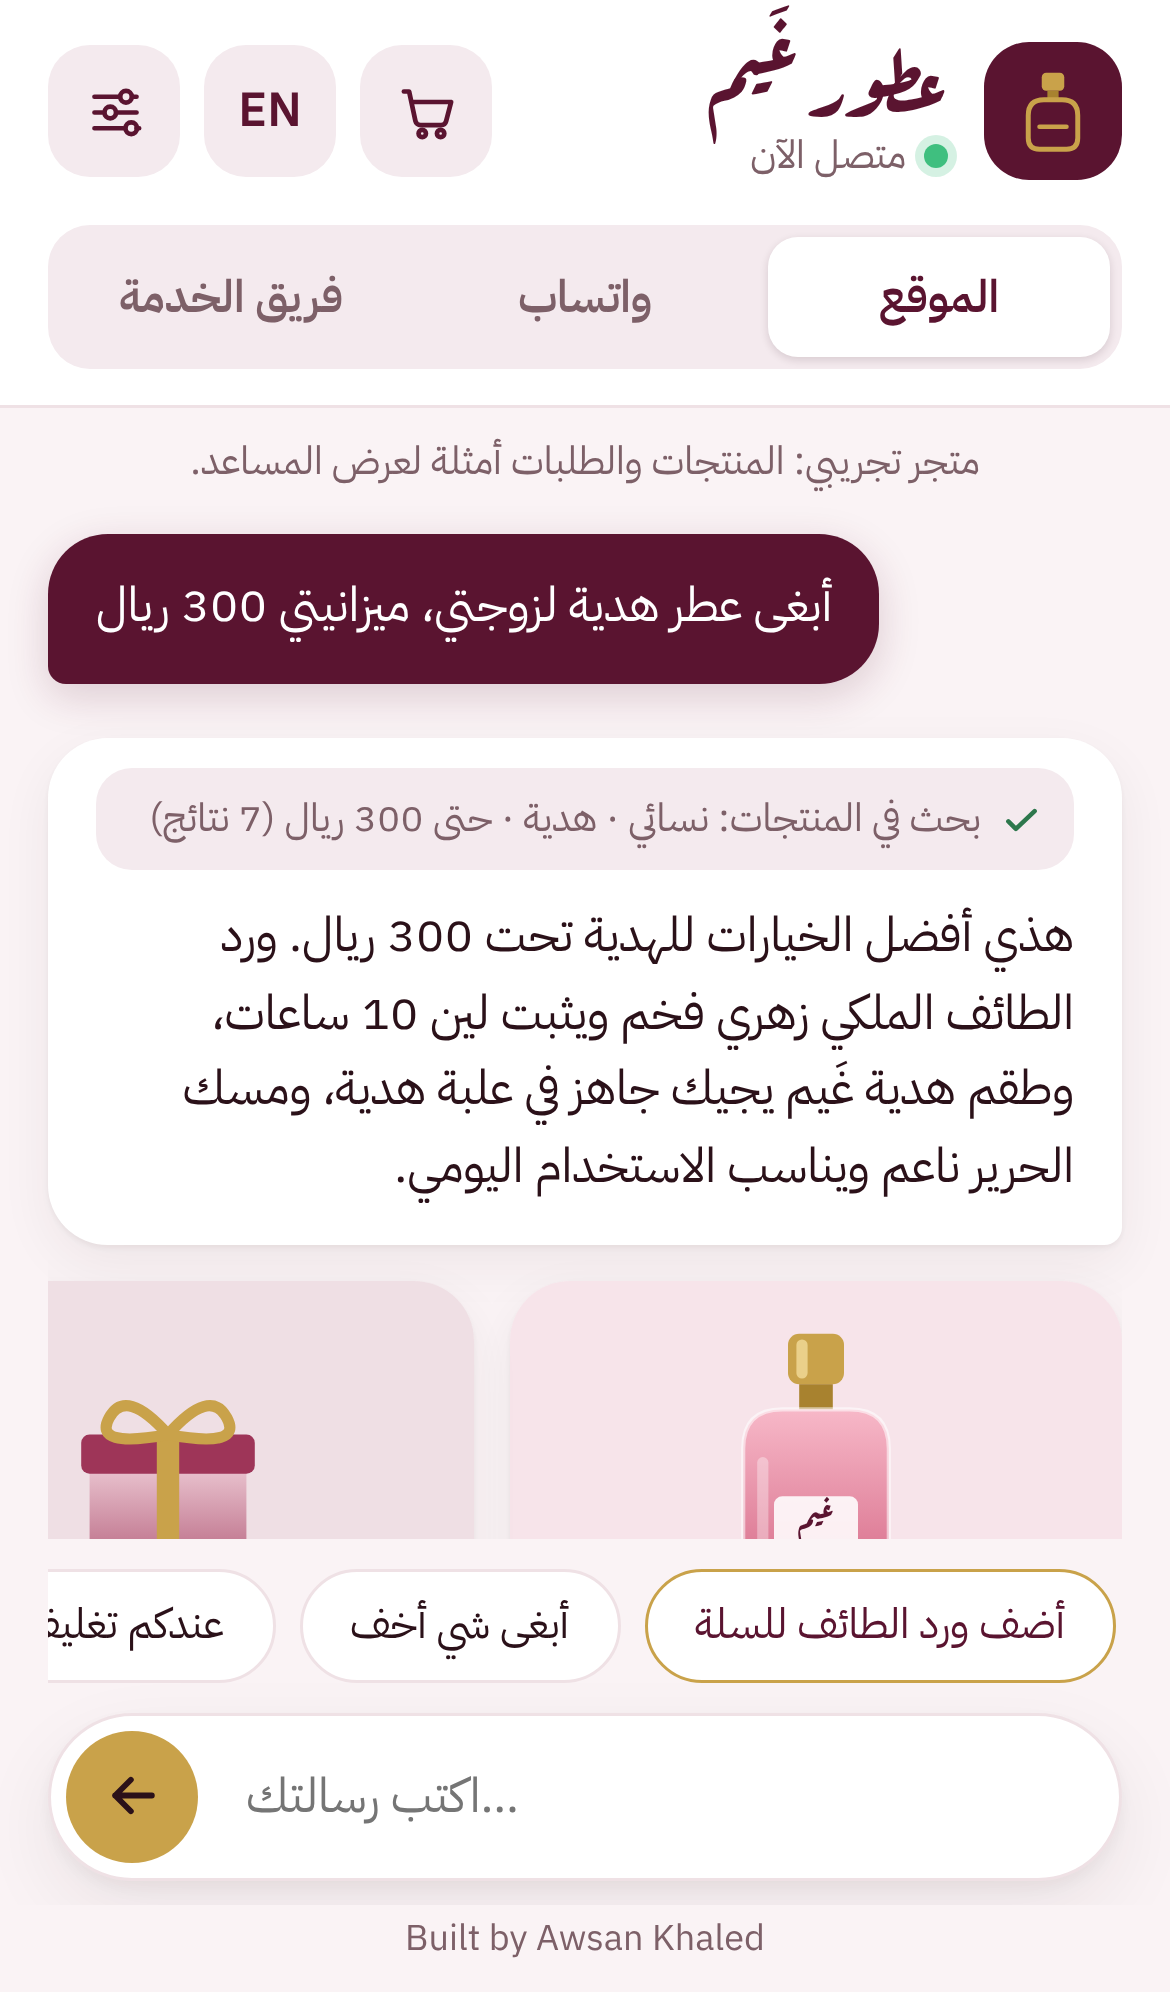
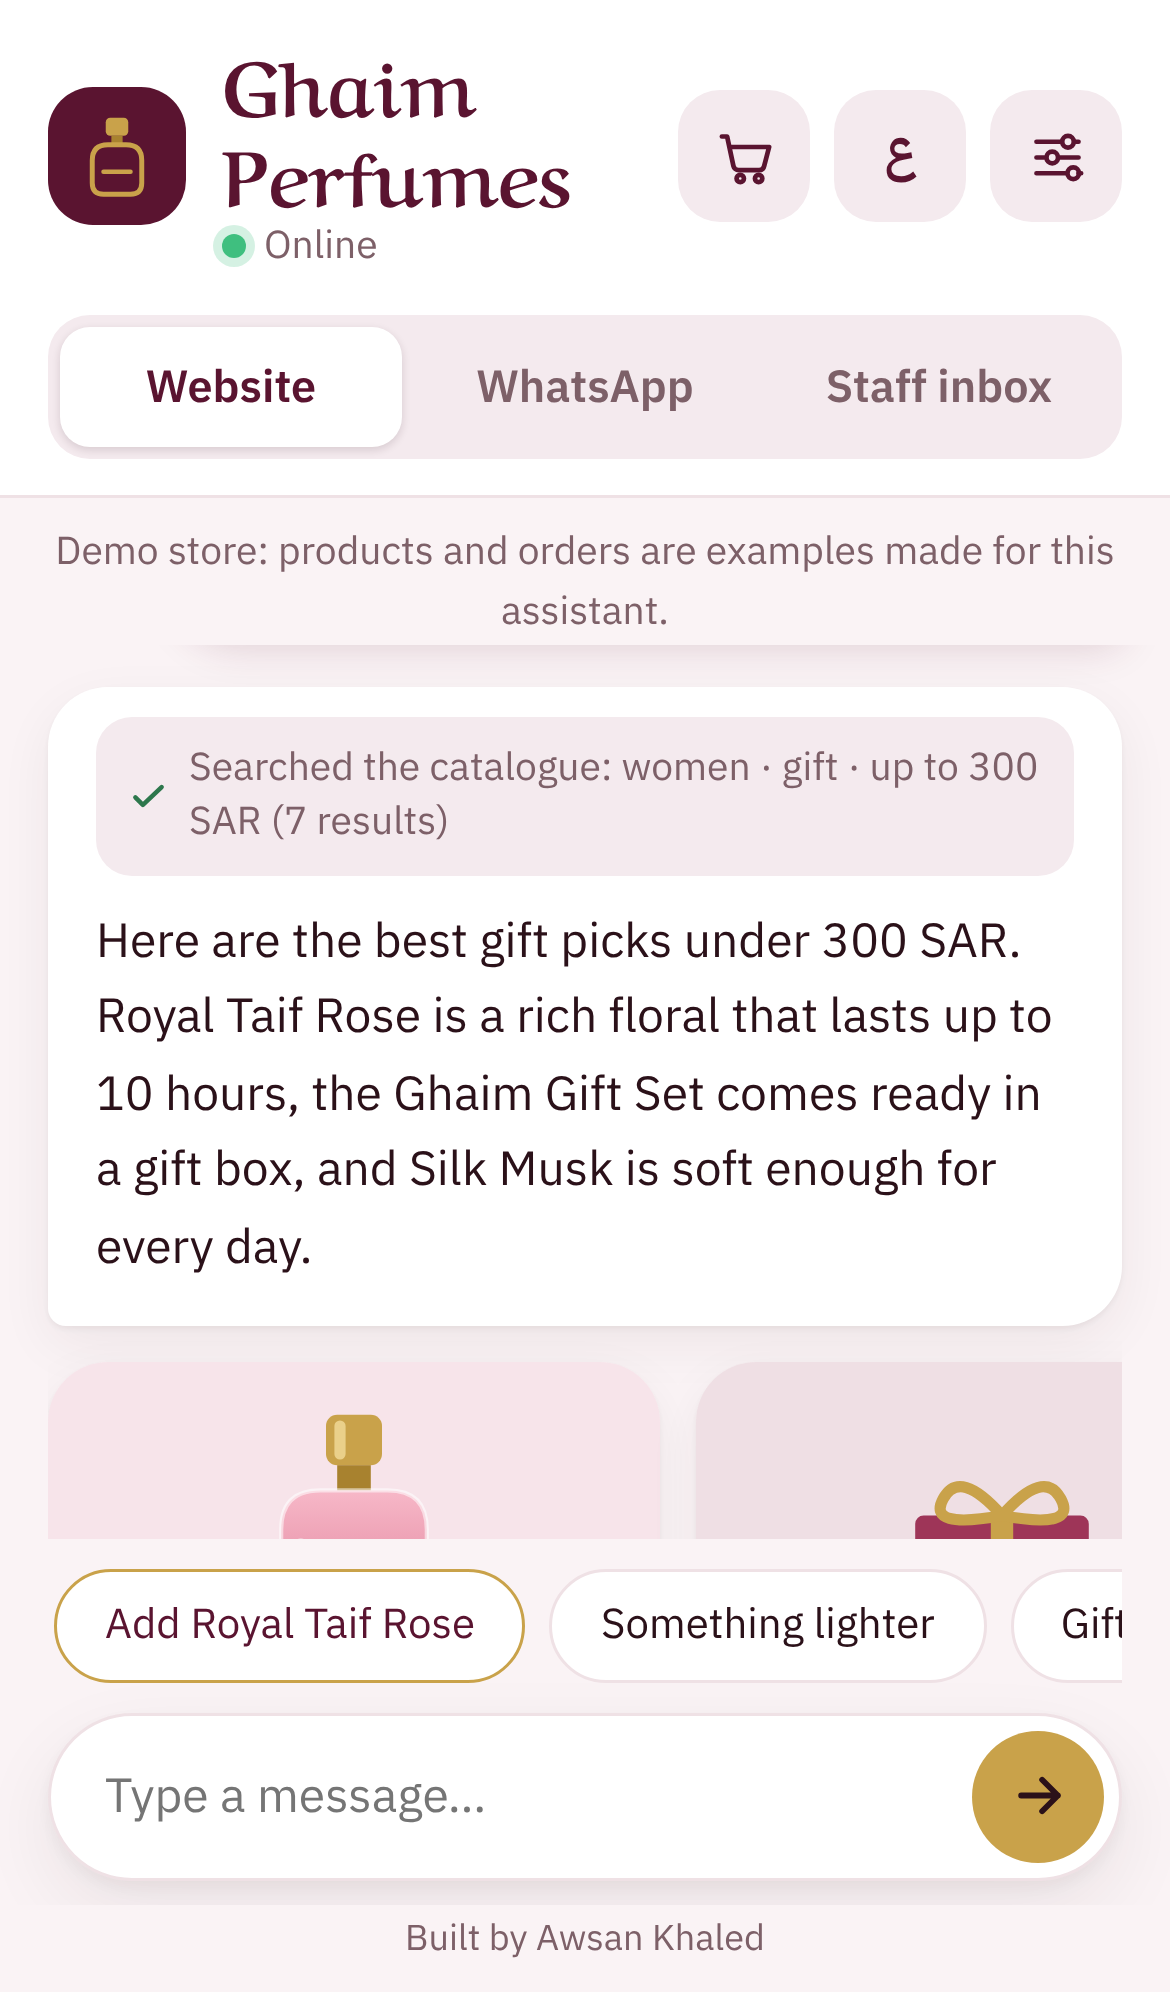
README: English only, with English screenshots
Removed the Arabic summary and the Arabic store name from the README,
and retook the four screenshots (website chat, staff inbox, phone chat,
WhatsApp preview) with the page in English.

diff --git a/README.md b/README.md
@@ -1,14 +1,11 @@
-# Ghaim Perfumes (عطور غَيم) · AI shopping assistant demo
-
-مساعد تسوق ذكي يتحدث العربية لمتجر عطور سعودي تجريبي: يقترح العطور المناسبة، ويتابع الطلبات، ويضيف إلى السلة، ويحوّل المحادثة إلى فريق الخدمة.
-يعمل على Claude عبر خادم PHP صغير يحفظ المفتاح بعيداً عن المتصفح، مع معاينة لقناة واتساب وصندوق لفريق خدمة العملاء.
+# Ghaim Perfumes · AI shopping assistant demo
 
 **Live demo: [shop.awsankhaled.com](https://shop.awsankhaled.com)**
 
 An Arabic-first shopping assistant for a sample perfume store in Saudi Arabia. Customers chat in Gulf Arabic, Modern Standard Arabic or English, and the assistant:
 
 - **recommends perfumes** by taste, budget, occasion and who they are for, shown as product cards with an add-to-cart button;
-- **tracks orders** (try 1042 to 1046), including numbers typed with Arabic digits (١٠٤٢);
+- **tracks orders** (try 1042 to 1046), including numbers typed in Arabic-Indic digits;
 - **adds products to the cart** when the customer asks;
 - **hands the chat to a person** for complaints, refunds, damaged items or payment problems, with a ready summary in the staff inbox.
 
